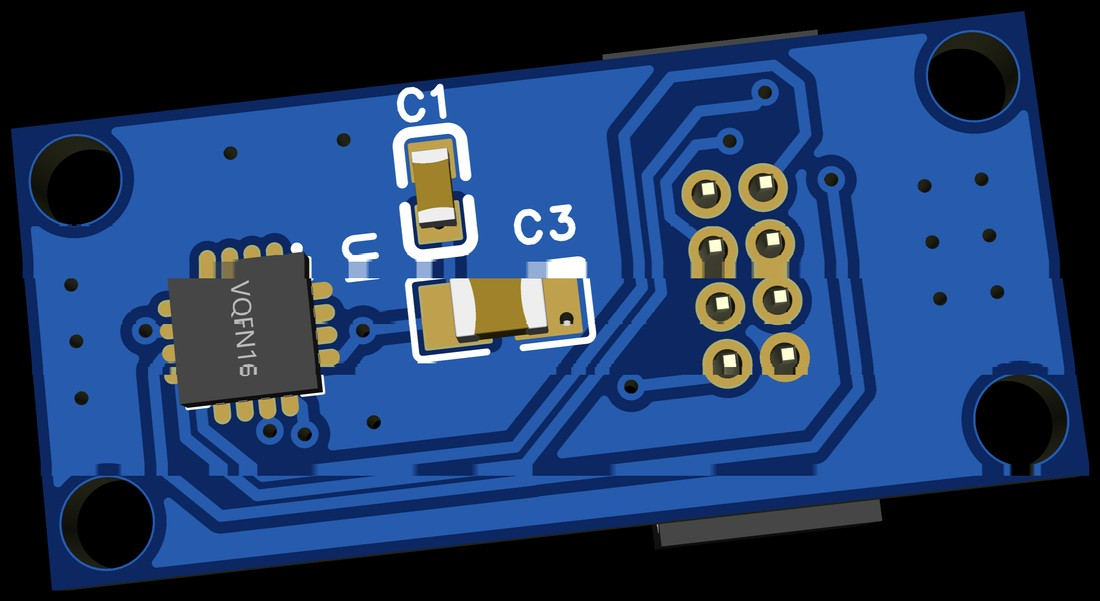
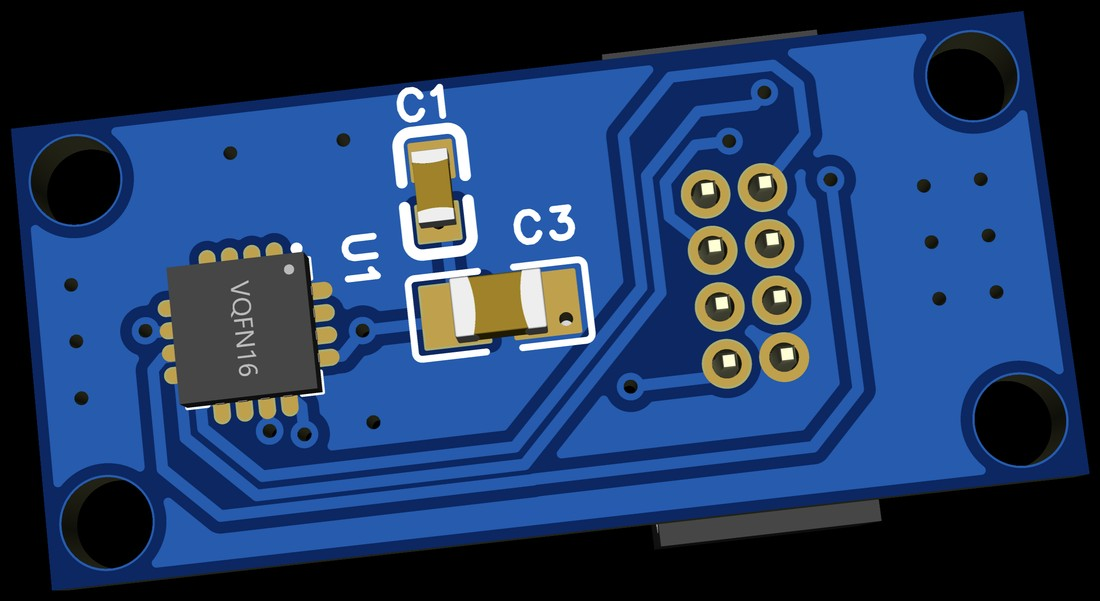
fix: week 7 MT6701 front render no longer has its middle blanked, slide 6 table in plain words -- prepare_figures.py's column wipe zeroed every column where the board filled 60 % of the height and its row fix stitched board rows; the column wipe is replaced by cropping the editor frame (top 90, left

diff --git a/week-07/index.html b/week-07/index.html
@@ -3,7 +3,7 @@
 <link rel="icon" href="data:,">
 <script src="vendor/react.production.min.js"></script><script src="vendor/react-dom.production.min.js"></script><script src="./support.js"></script></head>
 <body><x-dc><helmet><meta name="viewport" content="width=device-width, initial-scale=1"><title>7주차 자율 지게차 개발</title>
-<link rel="stylesheet" href="vendor/uos-slide-template/fonts/fonts.css"><link rel="stylesheet" href="vendor/uos-slide-template/_ds_bundle.css"><link rel="stylesheet" href="vendor/uos-slide-template/styles.css"><link rel="stylesheet" href="deck.css?v=c6f6a9aa2152"><script src="vendor/uos-slide-template/_ds_bundle.js"></script></helmet>
+<link rel="stylesheet" href="vendor/uos-slide-template/fonts/fonts.css"><link rel="stylesheet" href="vendor/uos-slide-template/_ds_bundle.css"><link rel="stylesheet" href="vendor/uos-slide-template/styles.css"><link rel="stylesheet" href="deck.css?v=af6ed075c3d5"><script src="vendor/uos-slide-template/_ds_bundle.js"></script></helmet>
 <x-import component-from-global-scope="deck-stage" from="./deck-stage.js" width="1280" height="720" hint-size="100%,100%">
 <section class="title-section" data-label="개발 진행 보고" data-screen-label="01" data-duration="25" data-speaker-notes="권장 25초
 
@@ -125,7 +125,10 @@ Table 2 SOP-8 핀 (TEST 띄움), SPI CPOL = 1 · CPHA = 1 · 16비트 프레임,
 <figure class="shot sch"><img class="media" src="assets/80_mt_sch.png" alt="MT6701 보드 회로도. MT6701QT-ACD U1의 A, B, Z 핀과 U, V, W 핀을 반전 A, B, Z로, TLV70233 U2가 VCC를 3V3으로, CN1 HX JN1.27-2x4P"><figcaption>MT6701 보드 회로도 (MT_DS V1.0.0)</figcaption></figure>
 <figure class="shot sch"><img class="media" src="assets/81_kth_sch.png" alt="KTH7801 보드 회로도. KTH7801-X-C-SOP8 U2의 MOSI, CS, MISO, SCLK, CS에 2.2 kΩ 풀업 R4, TLV70233 U1, CN1 HX JN1.27-2x4P"><figcaption>KTH7801 보드 회로도 (KTH_Enc V1.1.2)</figcaption></figure>
 </div>
-<table class="comparison h7 nwall"><tr><th>보드</th><th>출력</th><th>커넥터 CN1 핀</th></tr><tr><td>MT6701</td><td>A, B, Z와 반전 신호 (출고 설정)</td><td>1 VCC, 2 GND, 3–8 A, A̅, B, B̅, Z, Z̅</td></tr><tr><td>KTH7801</td><td>SPI 모드 3, 각도 12비트 + CRC 4비트</td><td>1 VCC, 2 CS, 4 CLK, 6 MOSI, 7 GND, 8 MISO</td></tr></table>
+<table class="comparison h7 nwall enc7t"><tr><th></th><th>MT6701 보드 (바퀴)</th><th>KTH7801 보드 (조향 · 승강)</th></tr>
+<tr><td>보내는 값</td><td>바퀴가 돈 만큼 나오는 펄스</td><td>지금 각도 (숫자 값)</td></tr>
+<tr><td>신호 선</td><td>펄스 3쌍 (A, B, Z와 반전)</td><td>SPI 4선 (CS, CLK, MOSI, MISO)</td></tr>
+<tr><td>전원</td><td colspan="2">케이블로 5 V를 받아 보드에서 3.3 V로 낮춤</td></tr></table>
 <div class="takeaway">두 보드 모두 작게 두고, KTH7801의 긴 케이블 쪽 처리는 바로 옆 STDS 보드가 맡습니다</div>
 </div></x-import>
 </section>

diff --git a/week-07/deck.css b/week-07/deck.css
@@ -639,3 +639,5 @@ video::-webkit-media-controls, video::-webkit-media-controls-enclosure { display
 .hw7.sch3 > .shot.sch { padding:2px; }
 .hw7.sch3 { grid-template-columns:auto minmax(0,1fr); }
 .hw7.sch3 > .shot.sch { height:100%; width:auto; aspect-ratio:1800 / 1340; justify-self:start; }
+.comparison.h7.enc7t th:first-child, .comparison.h7.enc7t td:first-child { width:14%; }
+.comparison.h7.enc7t td[colspan] { text-align:center; }

diff --git a/week-07/prepare_figures.py b/week-07/prepare_figures.py
@@ -19,26 +19,25 @@ from PIL import Image
 HERE = Path(__file__).resolve().parent
 
 
-def trim_render(img, pad=24, ui_top=0, ui_right=0):
+def trim_render(img, pad=24, ui_top=0, ui_right=0, ui_left=0):
     a = np.asarray(img.convert('RGB')).astype(int)
     h, w, _ = a.shape
     mask = a.max(axis=2) > 45
     mask[:ui_top] = False
+    mask[:, :ui_left] = False
     if ui_right:
         mask[:, w - ui_right:] = False
     # rows that are one thin light line across the whole canvas (a viewer artefact) are not board
-    full = mask.mean(axis=1) > 0.9
+    sat = a.max(axis=2) - a.min(axis=2)
+    light = (a.min(axis=2) > 150) & (sat < 30)
+    full = light.mean(axis=1) > 0.9
     a2 = a.copy()
     for y in np.where(full)[0]:
         src = y - 2 if y >= 2 else y + 2
         a2[y] = a2[src]
         mask[y] = mask[src]
-    # the same for columns (the editor's panel edge beside the 3D view; only where there is an editor frame)
-    for x in (np.where(mask.mean(axis=0) > 0.6)[0] if ui_right else []):
-        a2[:, x] = 0
-        mask[:, x] = False
     ys, xs = np.where(mask)
-    box = (max(xs.min() - pad, 0), max(ys.min() - pad, ui_top), min(xs.max() + pad, w - ui_right), min(ys.max() + pad, h))
+    box = (max(xs.min() - pad, ui_left), max(ys.min() - pad, ui_top), min(xs.max() + pad, w - ui_right), min(ys.max() + pad, h))
     out = Image.fromarray(a2.astype('uint8')).crop(box)
     return out
 
@@ -64,11 +63,11 @@ def main(src, out):
     o = lambda n: out / n
 
     # 3D renders (black background); mt6701_1 still has the editor's tab bar and right edge
-    renders = {'mt6701_1.png': ('80_mt_top.jpg', 90, 40),
+    renders = {'mt6701_1.png': ('80_mt_top.jpg', 90, 40, 30),
                'kth7801_1.png': ('81_kth_top.jpg', 0, 0),
                'stds_2.png': ('82_stds_top.jpg', 0, 0), 'stds_3.png': ('82_stds_bottom.jpg', 0, 0)}
-    for name, (dst, top, right) in renders.items():
-        fit(trim_render(Image.open(src / name), ui_top=top, ui_right=right), 1100).save(o(dst), quality=90)
+    for name, (dst, top, right, *left) in renders.items():
+        fit(trim_render(Image.open(src / name), ui_top=top, ui_right=right, ui_left=(left or [0])[0]), 1100).save(o(dst), quality=90)
 
     # schematics (paper background) -- PNG keeps the thin lines sharp
     for name, dst in (('mt6701_3.png', '80_mt_sch.png'), ('kth7801_3.png', '81_kth_sch.png'), ('stds_1.png', '82_stds_sch.png')):

diff --git a/week-07/build_deck.py b/week-07/build_deck.py
@@ -316,9 +316,10 @@ add('엔코더 보드 두 종', '05  엔코더 보드 두 종', 60, f"""
 {sch('80_mt_sch.png', 'MT6701 보드 회로도. MT6701QT-ACD U1의 A, B, Z 핀과 U, V, W 핀을 반전 A, B, Z로, TLV70233 U2가 VCC를 3V3으로, CN1 HX JN1.27-2x4P', 'MT6701 보드 회로도 (MT_DS V1.0.0)')}
 {sch('81_kth_sch.png', 'KTH7801 보드 회로도. KTH7801-X-C-SOP8 U2의 MOSI, CS, MISO, SCLK, CS에 2.2 kΩ 풀업 R4, TLV70233 U1, CN1 HX JN1.27-2x4P', 'KTH7801 보드 회로도 (KTH_Enc V1.1.2)')}
 </div>
-{table(['보드', '출력', '커넥터 CN1 핀'], [
-    ('MT6701', 'A, B, Z와 반전 신호 (출고 설정)', '1 VCC, 2 GND, 3–8 A, A̅, B, B̅, Z, Z̅'),
-    ('KTH7801', 'SPI 모드 3, 각도 12비트 + CRC 4비트', '1 VCC, 2 CS, 4 CLK, 6 MOSI, 7 GND, 8 MISO')], 'comparison h7 nwall')}
+<table class="comparison h7 nwall enc7t"><tr><th></th><th>MT6701 보드 (바퀴)</th><th>KTH7801 보드 (조향 · 승강)</th></tr>
+<tr><td>보내는 값</td><td>바퀴가 돈 만큼 나오는 펄스</td><td>지금 각도 (숫자 값)</td></tr>
+<tr><td>신호 선</td><td>펄스 3쌍 (A, B, Z와 반전)</td><td>SPI 4선 (CS, CLK, MOSI, MISO)</td></tr>
+<tr><td>전원</td><td colspan="2">케이블로 5 V를 받아 보드에서 3.3 V로 낮춤</td></tr></table>
 <div class="takeaway">두 보드 모두 작게 두고, KTH7801의 긴 케이블 쪽 처리는 바로 옆 STDS 보드가 맡습니다</div>
 """,
     """엔코더 보드 두 종류의 회로도입니다. 왼쪽은 바퀴에 다는 MT6701 보드입니다. 칩은 QFN 패키지의 MT6701QT-ACD인데, 이 품번은 공장에서 U, V, W 핀이 A, B, Z의 반전 신호를 내도록 설정되어 나오므로, 따로 프로그래밍하지 않아도 세 쌍의 차동 신호가 나오고 보드에 차동 드라이버 칩을 둘 필요가 없습니다. 오른쪽은 조향과 승강에 다는 KTH7801 보드로, SOP-8 칩 하나와 레귤레이터만 있고 SPI 네 선과 전원, 접지만 커넥터로 나갑니다. KTH7801의 SPI는 클럭이 쉴 때 High인 모드 3이고, 한 번에 16비트를 주고받는데 이 품번은 그중 12비트가 각도, 4비트가 CRC입니다. 칩 선택 선은 2.2킬로옴으로 풀업해 MCU가 켜지기 전에는 선택되지 않게 했습니다. 두 보드 모두 뒷면에 커넥터와 레귤레이터가 있어, 케이블로 받은 5볼트를 3.3볼트로 낮춰 칩에 줍니다. (전환)""",

diff --git a/week-07/VALIDATION.md b/week-07/VALIDATION.md
@@ -36,3 +36,5 @@
 - 사용자 지시(같은 날): 3쪽 캡션의 "(3쪽 중 1쪽, 모터와 센서)"를 빼고 「메인보드 회로도」만 남겼다.
 - 사용자 지시(같은 날): 3쪽 표를 더 간단히(측정 · 신호 경로 두 칸), 남는 폭은 회로도를 크게. 원고의 「모터와 센서 쪽 1쪽」도 뺐다.
 - 사용자 지시(같은 날): 4쪽 캡션 「L 채널 (네 채널 모두 같은 회로)」을 「모터 드라이버 회로도」로.
+- 사용자 지시(같은 날): 「mt6701_1.png 최신판으로 교체 … 배포판에서 이미지 중간이 잘렸어」. 원인은 prepare_figures.py 의 세로줄 지우기(보드 높이가 60 % 넘는 세로줄까지 지움)와 가로줄 지우기(보드 줄까지 이어 붙임)였다. 세로줄 처리는 없애고 편집기 테두리(위 90, 왼 30, 오른 40 px)만 자르며, 가로줄은 밝은 회색 줄만 지우게 고쳐 다시 만들었다(Downloads 의 mt6701_1.png 는 처음 받은 파일과 같은 내용).
+- 사용자 지시(같은 날): 6쪽 핀 번호 표가 비직관적이라, 보드를 열로 두고 「보내는 값 · 신호 선 · 전원」을 평이한 말로 쓴 표로 바꿨다. 핀 번호는 출처와 원고에만 남김.
